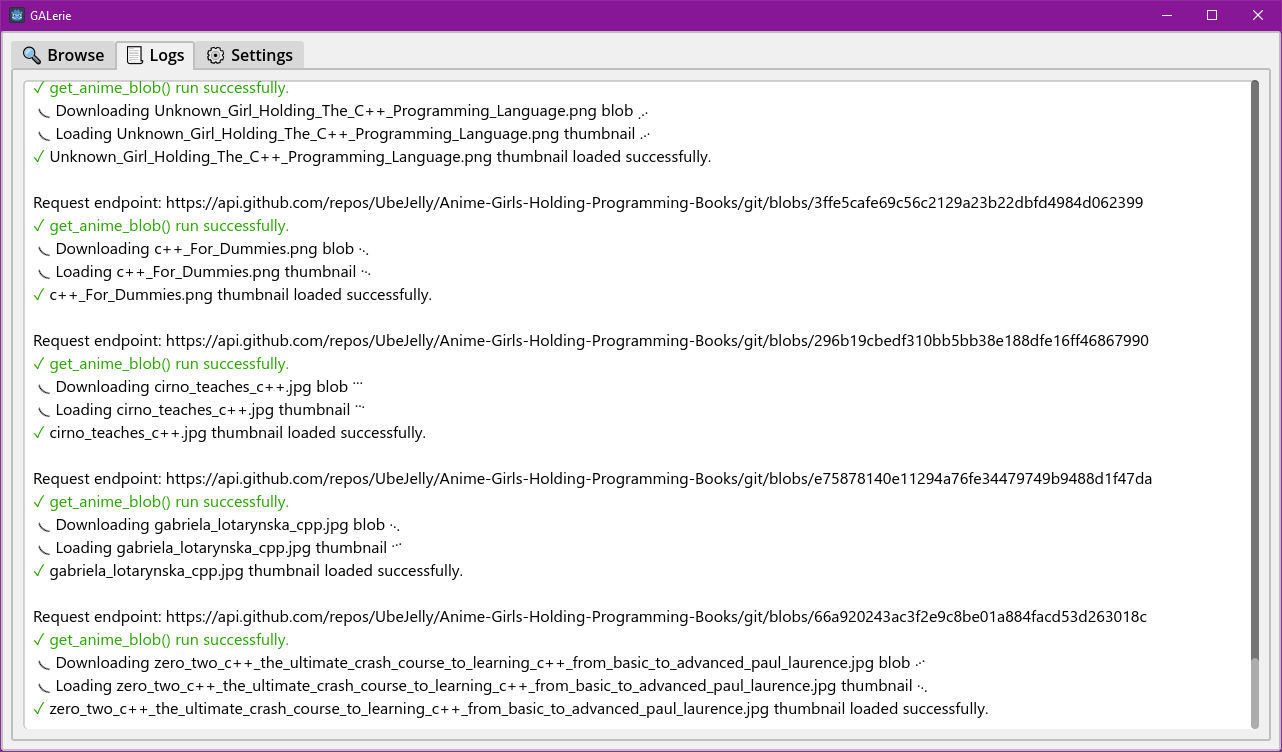
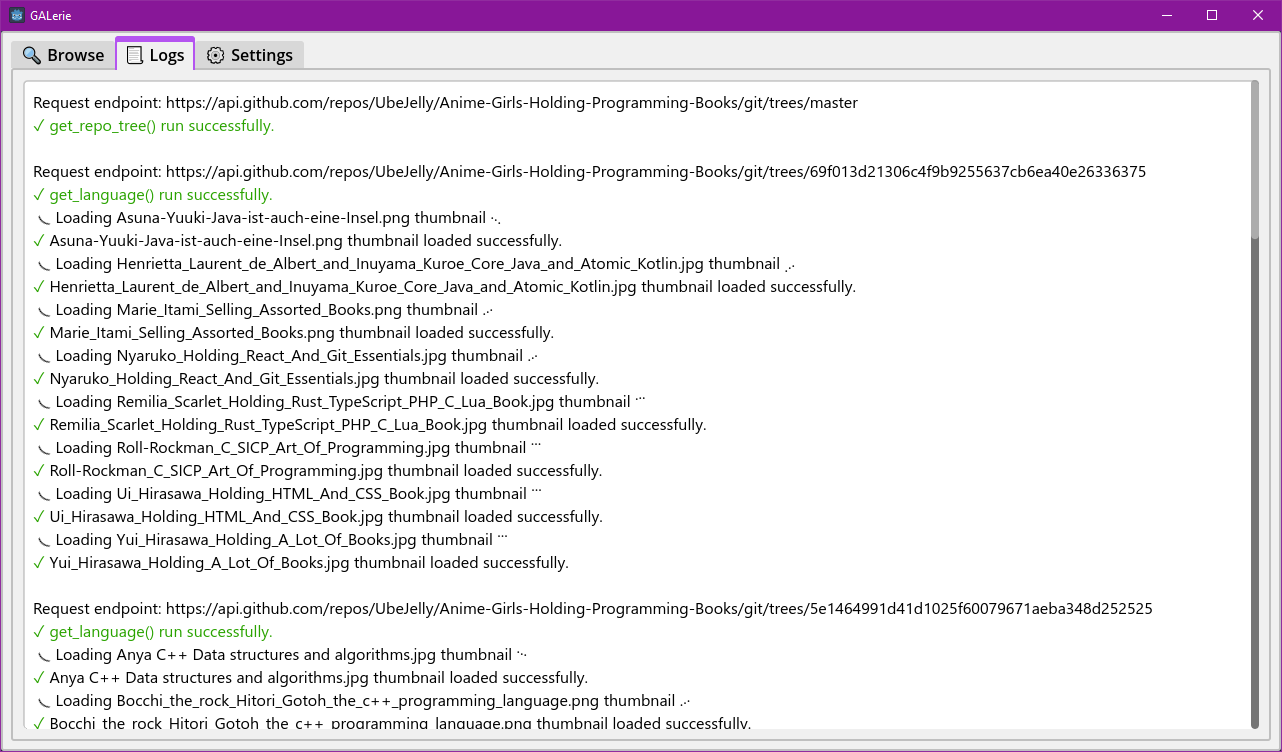
Added trash and permanent delete image caches in Settings, added reusble function for all print_rich() and push_logs() output functions, improved margins in GUI, updated TabBar button's selected state in default theme resource, added Settings screenshot for README, updated README

diff --git a/README.md b/README.md
@@ -8,22 +8,28 @@ Fetches images of anime girls with programming books from https://github.com/cat
 
 You can click on a thumbnail to save the image at `~/Documents/GALerie/Anime_Girls`, and click on any languages to load its images.
 
+### Logs
+
 There's a `Logs` section where it keeps track of some things in the background. It also `print_rich()` on Godot's terminal but only with supported built-in effects, i.e. no custom effects.
 
 ![logs_screenshot.png](.github/img/logs_screenshot.png)
+
+### Settings
+
+![settings_screenshot.png](.github/img/settings_screenshot.png)
 
 ## Features
 
 - [x] Browse - shows the programming books and anime girls to choose and download from.
 - [x] Logs - shows the background information like request status, loading, and saving images.
-- [x] Settings - shows the parameters that can be changed to affect some program functions.
-- [x] Cache - the existing texture resources in memory are skipped from http requests.
+- [x] Settings - shows the parameters that can be changed to affect some program functions and data.
+- [x] Cache - the saved texture resources in memory are skipped from requests, so thumbnails load instantly.
 - [x] Animations - hover effects on thumbnails, tooltips pop in/out, custom effects on `Logs`.
 - [x] Rate limit - mainly for testing purposes, but can also be applied on export. (see [Testing](#testing))
 
 ## Process
 
-It basically requests the blob files through the entire repo, so we get `PackedByteArray` buffers which are then converted into readable `ImageTextures`.
+It basically requests the blob files through the entire repo, so we get `PackedByteArray` buffers which are then converted into readable `ImageTextures` (these are the image caches).
 
 This means that it doesn't really download the images to any folder by default, and it will only save the images locally after you click on the thumbnails.
 